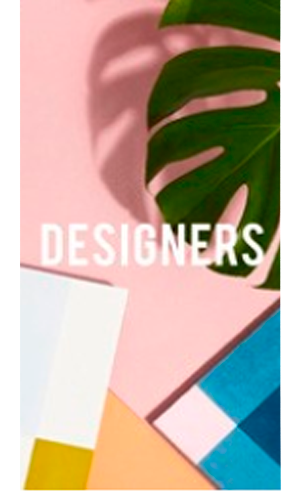
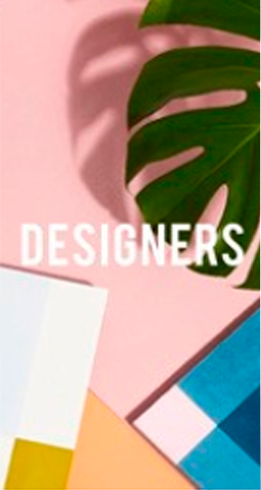
prefinal commit

diff --git a/sass/style.sass b/sass/style.sass
@@ -432,18 +432,34 @@ i.h_menu_icon
     h2
       font-family: SF UI Display Semibold,Helvetica,Arial,sans-serif
       text-transform: uppercase
-      font-size: 2.2rem      
+      font-size: 2.2rem     
       text-align: center
+
+    #iphonebg
+        position: absolute
+        left: 39.3%
+        top: 6.6rem
+        background-color: #000
+        width: 245px
+        height: 496px
+        z-index: 1          
+    
     .who-wrapper
         padding: 0
         .phone
-            z-index: 2
+            z-index: 4
             position: absolute
             left: 31%
-            top: 5.7rem  
+            top: 5.7rem
+            img  
+                z-index: 3
     .insta-carousel
         margin-top: 4rem
         margin-bottom: 2rem
+        .swiper-slide-active
+            img
+                width: 225px
+                height: 500px
         .swiper-scrollbar
             position: relative            
             width: 70%
@@ -472,7 +488,7 @@ i.h_menu_icon
         background: $mouse_image
         width: 4rem
         height: 4.2rem
-        margin: 0rem auto          
+        margin: 0rem auto                  
 
                 
                 

diff --git a/css/style.css b/css/style.css
@@ -477,17 +477,31 @@ i.h_menu_icon {
   font-size: 2.2rem;
   text-align: center; }
 
+#who-is #iphonebg {
+  position: absolute;
+  left: 39.3%;
+  top: 6.6rem;
+  background-color: #000;
+  width: 245px;
+  height: 496px;
+  z-index: 1; }
+
 #who-is .who-wrapper {
   padding: 0; }
   #who-is .who-wrapper .phone {
-    z-index: 2;
+    z-index: 4;
     position: absolute;
     left: 31%;
     top: 5.7rem; }
+    #who-is .who-wrapper .phone img {
+      z-index: 3; }
 
 #who-is .insta-carousel {
   margin-top: 4rem;
   margin-bottom: 2rem; }
+  #who-is .insta-carousel .swiper-slide-active img {
+    width: 225px;
+    height: 500px; }
   #who-is .insta-carousel .swiper-scrollbar {
     position: relative;
     width: 70%;

diff --git a/index.html b/index.html
@@ -187,8 +187,10 @@
     <section id="who-is" class="who-is">
         <div class="row">            
             <div class="col-lg-12 who-wrapper">
-                <h2>WHO IS IT FOR?</h2>
-                <img src="img/composed.png" alt="" class="phone">
+                <h2>WHO IS IT FOR?</h2>                
+                <img src="img/composed.png" alt="" class="phone">             
+                
+                <span id="iphonebg"></span>
                 <div class="insta-carousel swiper-container">
                     <div class="carousel-wrapper swiper-wrapper">
                             <div class="insta-c-item swiper-slide">
